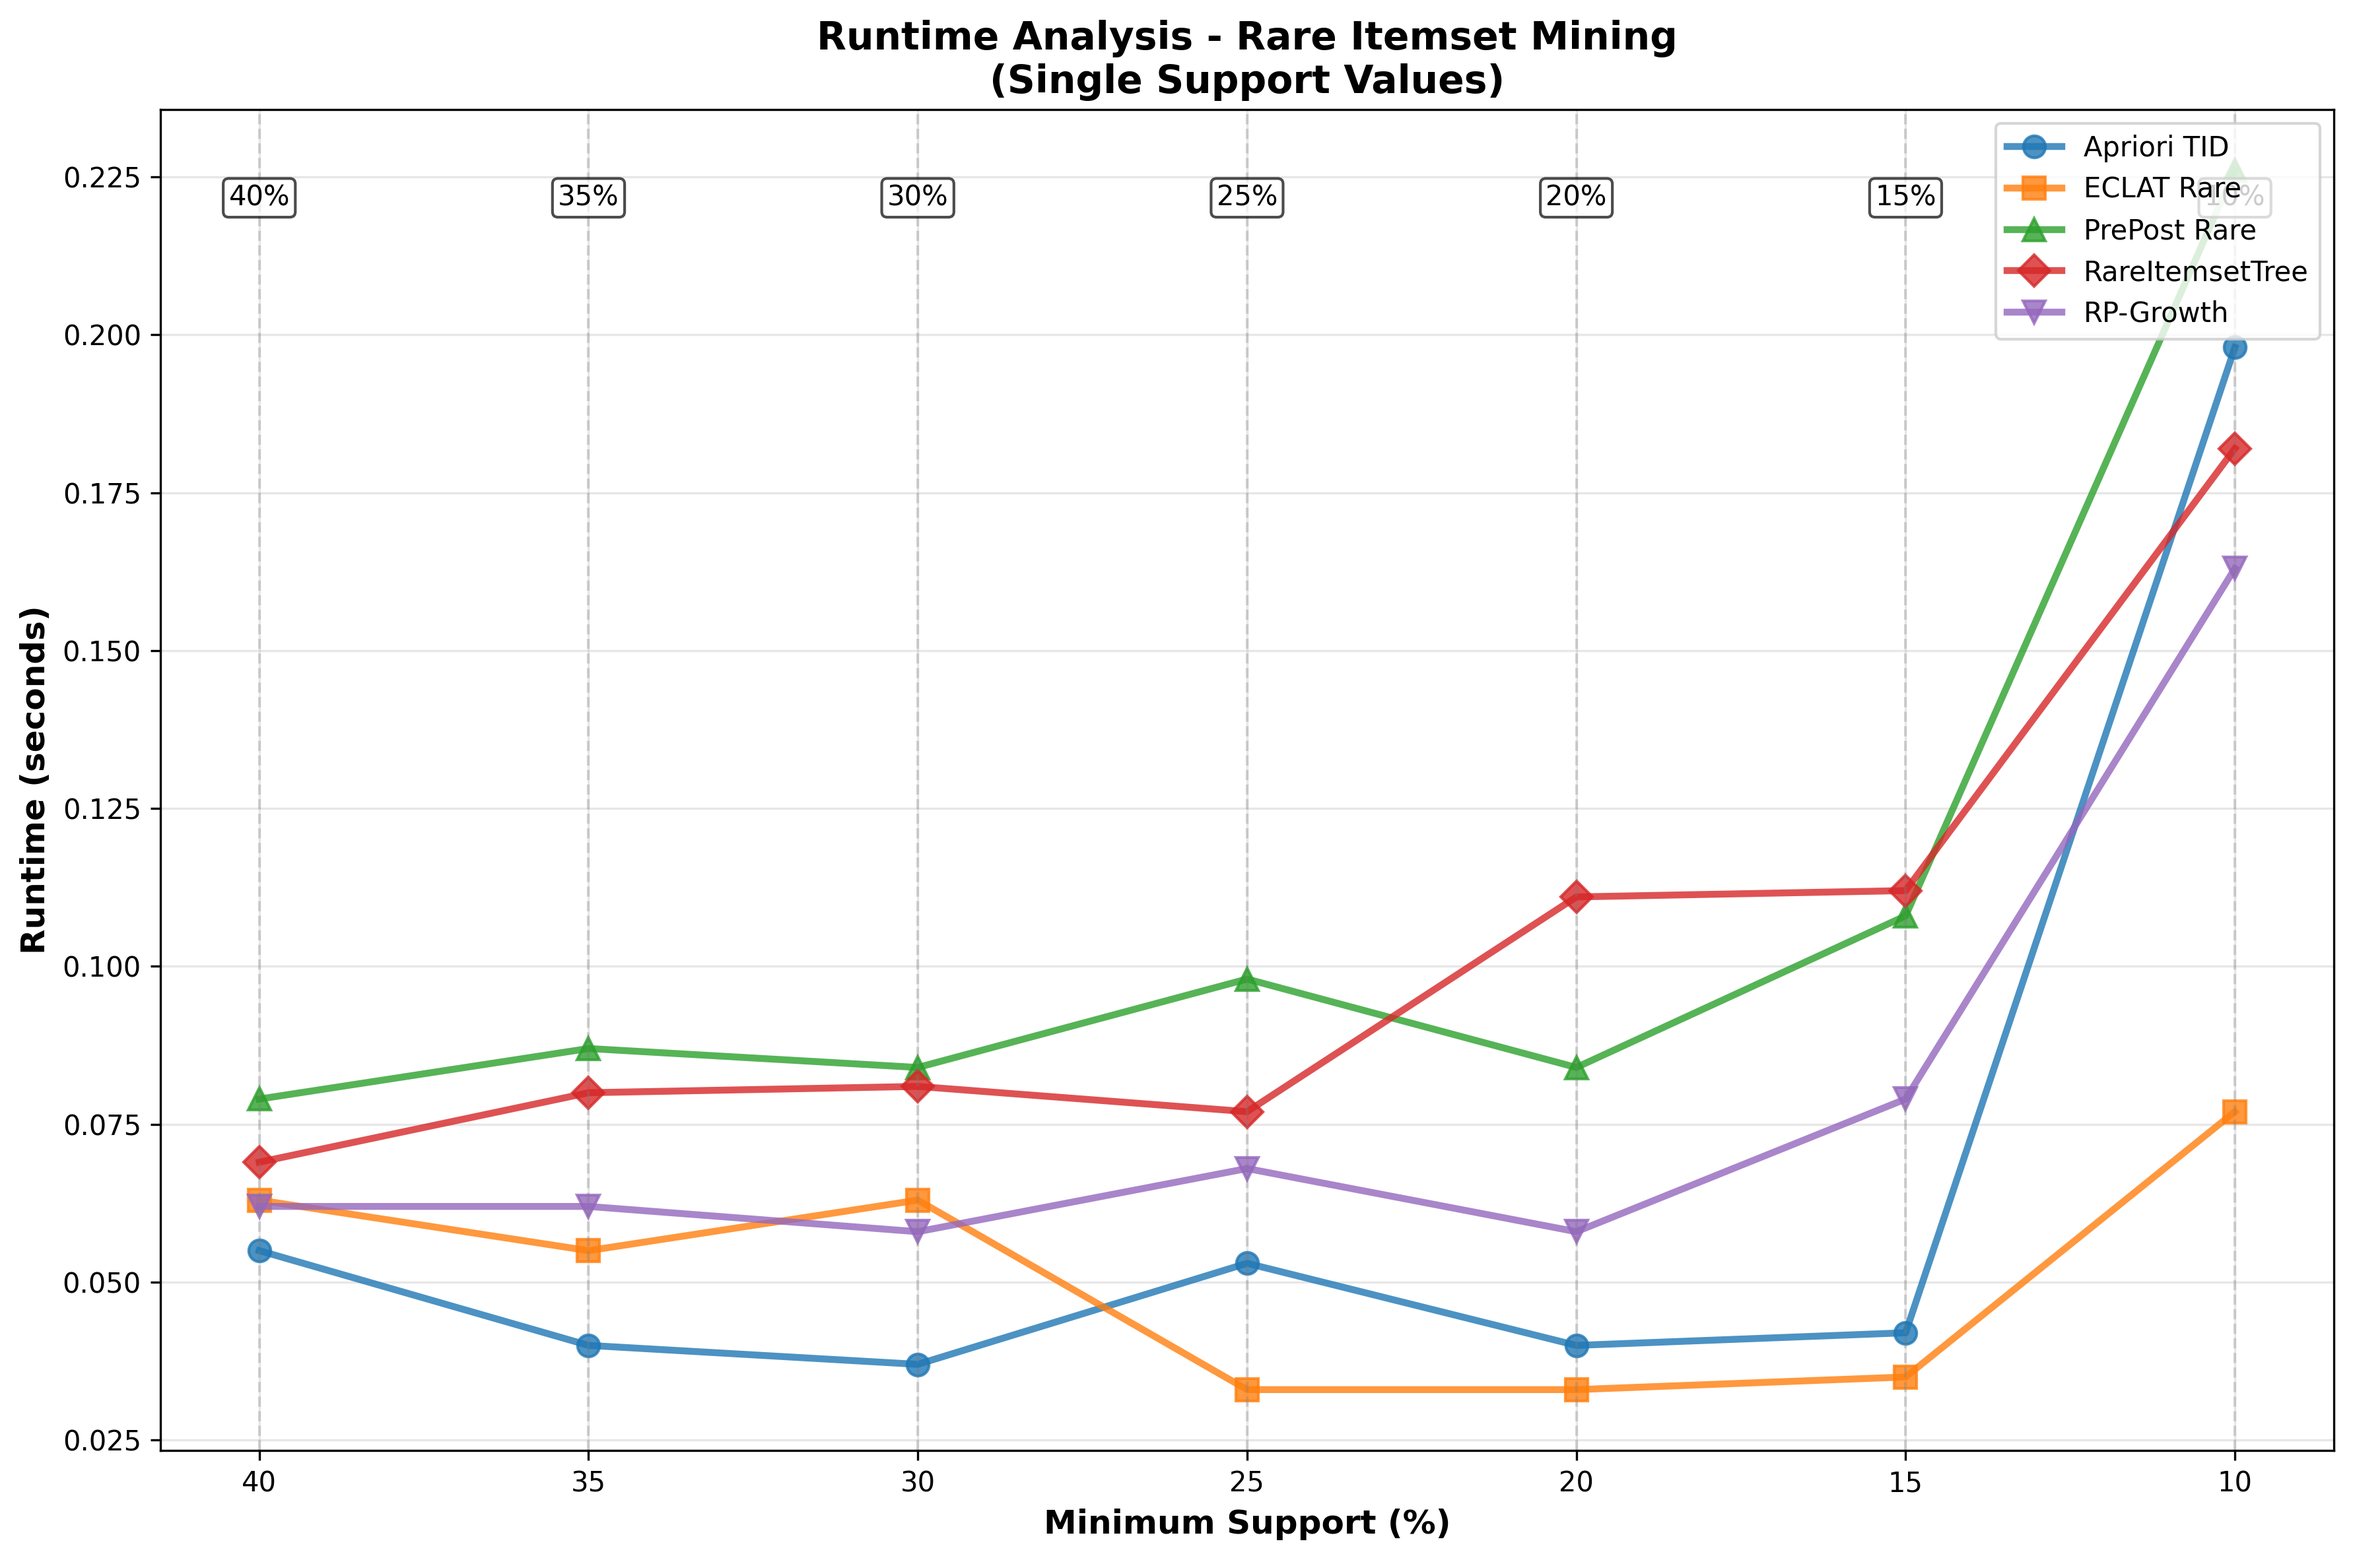
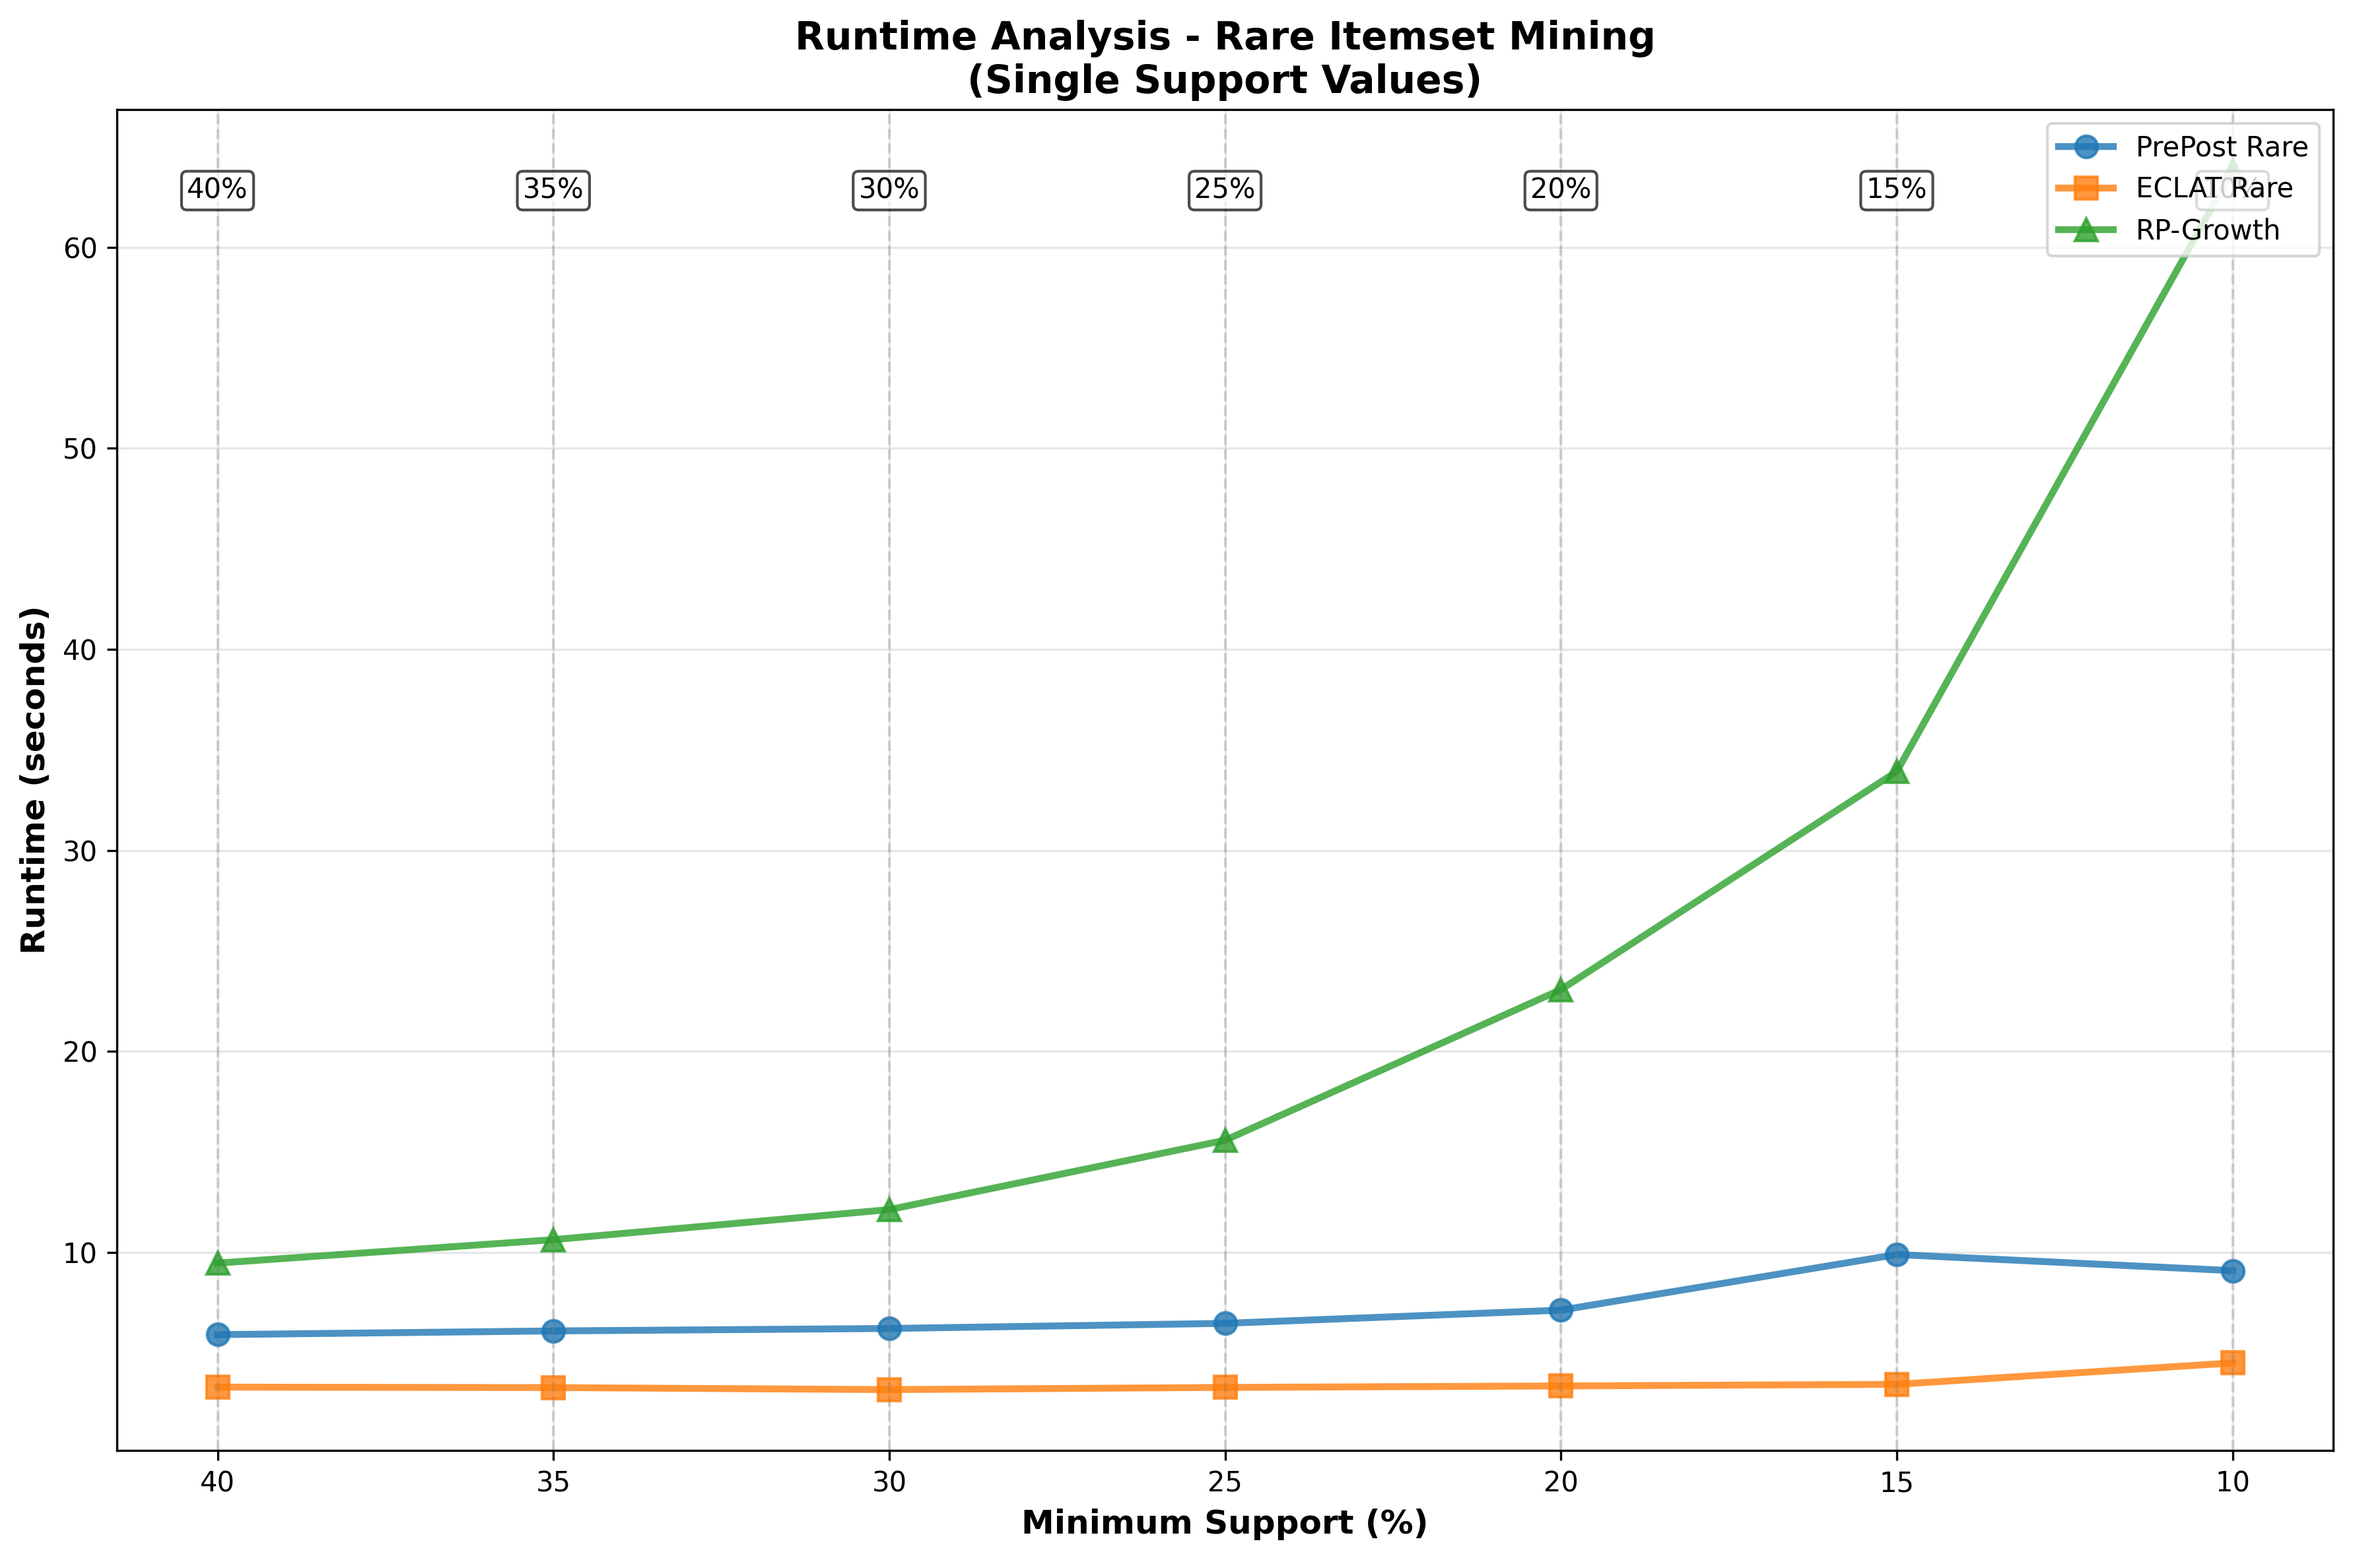
sua bieu do

diff --git a/results/visualize_top3.py b/results/visualize_top3.py
@@ -1,0 +1,77 @@
+import pandas as pd
+import matplotlib.pyplot as plt
+import seaborn as sns
+
+# Load data
+df = pd.read_csv('top3_benchmark.csv')
+
+# Set style
+plt.style.use('seaborn-v0_8')
+colors = ['#2E86AB', '#A23B72', '#F18F01']
+
+fig, ((ax1, ax2), (ax3, ax4)) = plt.subplots(2, 2, figsize=(15, 10))
+
+# Runtime comparison
+for i, algo in enumerate(df['Algorithm'].unique()):
+    data = df[df['Algorithm'] == algo].sort_values('SupportPoint')
+    ax1.plot(data['SupportPoint'], data['Runtime(ms)'] / 1000,
+             marker='o', linewidth=3, markersize=8,
+             color=colors[i % len(colors)], label=algo, alpha=0.8)
+
+ax1.set_xlabel('Support Point (%)', fontweight='bold')
+ax1.set_ylabel('Runtime (seconds)', fontweight='bold')
+ax1.set_title('🚀 Runtime Performance', fontsize=14, fontweight='bold')
+ax1.legend()
+ax1.grid(True, alpha=0.3)
+ax1.invert_xaxis()
+
+# Pattern count comparison
+for i, algo in enumerate(df['Algorithm'].unique()):
+    data = df[df['Algorithm'] == algo].sort_values('SupportPoint')
+    ax2.plot(data['SupportPoint'], data['PatternsFound'],
+             marker='s', linewidth=3, markersize=8,
+             color=colors[i % len(colors)], label=algo, alpha=0.8)
+
+ax2.set_xlabel('Support Point (%)', fontweight='bold')
+ax2.set_ylabel('Patterns Found', fontweight='bold')
+ax2.set_title('📊 Pattern Discovery', fontsize=14, fontweight='bold')
+ax2.legend()
+ax2.grid(True, alpha=0.3)
+ax2.invert_xaxis()
+
+# Memory usage
+for i, algo in enumerate(df['Algorithm'].unique()):
+    data = df[df['Algorithm'] == algo].sort_values('SupportPoint')
+    ax3.plot(data['SupportPoint'], data['Memory(MB)'],
+             marker='^', linewidth=3, markersize=8,
+             color=colors[i % len(colors)], label=algo, alpha=0.8)
+
+ax3.set_xlabel('Support Point (%)', fontweight='bold')
+ax3.set_ylabel('Memory Usage (MB)', fontweight='bold')
+ax3.set_title('💾 Memory Efficiency', fontsize=14, fontweight='bold')
+ax3.legend()
+ax3.grid(True, alpha=0.3)
+ax3.invert_xaxis()
+
+# Efficiency (patterns per second)
+for i, algo in enumerate(df['Algorithm'].unique()):
+    data = df[df['Algorithm'] == algo].sort_values('SupportPoint')
+    efficiency = data['PatternsFound'] / (data['Runtime(ms)'] / 1000)
+    ax4.plot(data['SupportPoint'], efficiency,
+             marker='D', linewidth=3, markersize=8,
+             color=colors[i % len(colors)], label=algo, alpha=0.8)
+
+ax4.set_xlabel('Support Point (%)', fontweight='bold')
+ax4.set_ylabel('Patterns/Second', fontweight='bold')
+ax4.set_title('⚡ Algorithm Efficiency', fontsize=14, fontweight='bold')
+ax4.legend()
+ax4.grid(True, alpha=0.3)
+ax4.invert_xaxis()
+
+plt.tight_layout()
+plt.savefig('top3_comparison.png', dpi=300, bbox_inches='tight')
+plt.show()
+
+print('📊 Chart saved: top3_comparison.png')
+print('🎯 Size: {}-{} items'.format(1, 5))
+print('🔥 Mode: MIXED (frequent + rare items)')

diff --git a/results/generate_chart.py b/results/generate_chart.py
@@ -1,0 +1,45 @@
+import pandas as pd
+import matplotlib.pyplot as plt
+import numpy as np
+
+# Load single support data
+df = pd.read_csv('segment_benchmark.csv')
+
+# Create chart like research paper with SINGLE support values
+plt.figure(figsize=(12, 8))
+
+algorithms = df['Algorithm'].unique()
+colors = ['#1f77b4', '#ff7f0e', '#2ca02c', '#d62728', '#9467bd']
+markers = ['o', 's', '^', 'D', 'v']
+
+# Plot each algorithm
+for i, algo in enumerate(algorithms):
+    algo_data = df[df['Algorithm'] == algo].sort_values('SupportPoint')
+    
+    plt.plot(algo_data['SupportPoint'], algo_data['Runtime(ms)'] / 1000,
+             marker=markers[i % len(markers)],
+             color=colors[i % len(colors)],
+             linewidth=2.5, markersize=8,
+             label=algo, alpha=0.8)
+
+plt.xlabel('Minimum Support (%)', fontsize=12, fontweight='bold')
+plt.ylabel('Runtime (seconds)', fontsize=12, fontweight='bold')
+plt.title('Runtime Analysis - Rare Itemset Mining\n(Single Support Values)', fontsize=14, fontweight='bold')
+plt.legend(loc='upper right')
+plt.grid(True, alpha=0.3)
+
+plt.gca().invert_xaxis()
+
+# Add vertical lines at each support point
+support_points = sorted(df['SupportPoint'].unique(), reverse=True)
+for point in support_points:
+    plt.axvline(x=point, color='gray', linestyle='--', alpha=0.3, linewidth=1)
+    plt.text(point, plt.ylim()[1] * 0.95, f"{point:.0f}%",
+             ha='center', va='top', fontsize=10, rotation=0,
+             bbox=dict(boxstyle="round,pad=0.2", facecolor='white', alpha=0.7))
+
+plt.tight_layout()
+plt.savefig('runtime_analysis_single_support.png', dpi=300, bbox_inches='tight')
+plt.show()
+
+print('\n📊 Chart saved: runtime_analysis_single_support.png')
